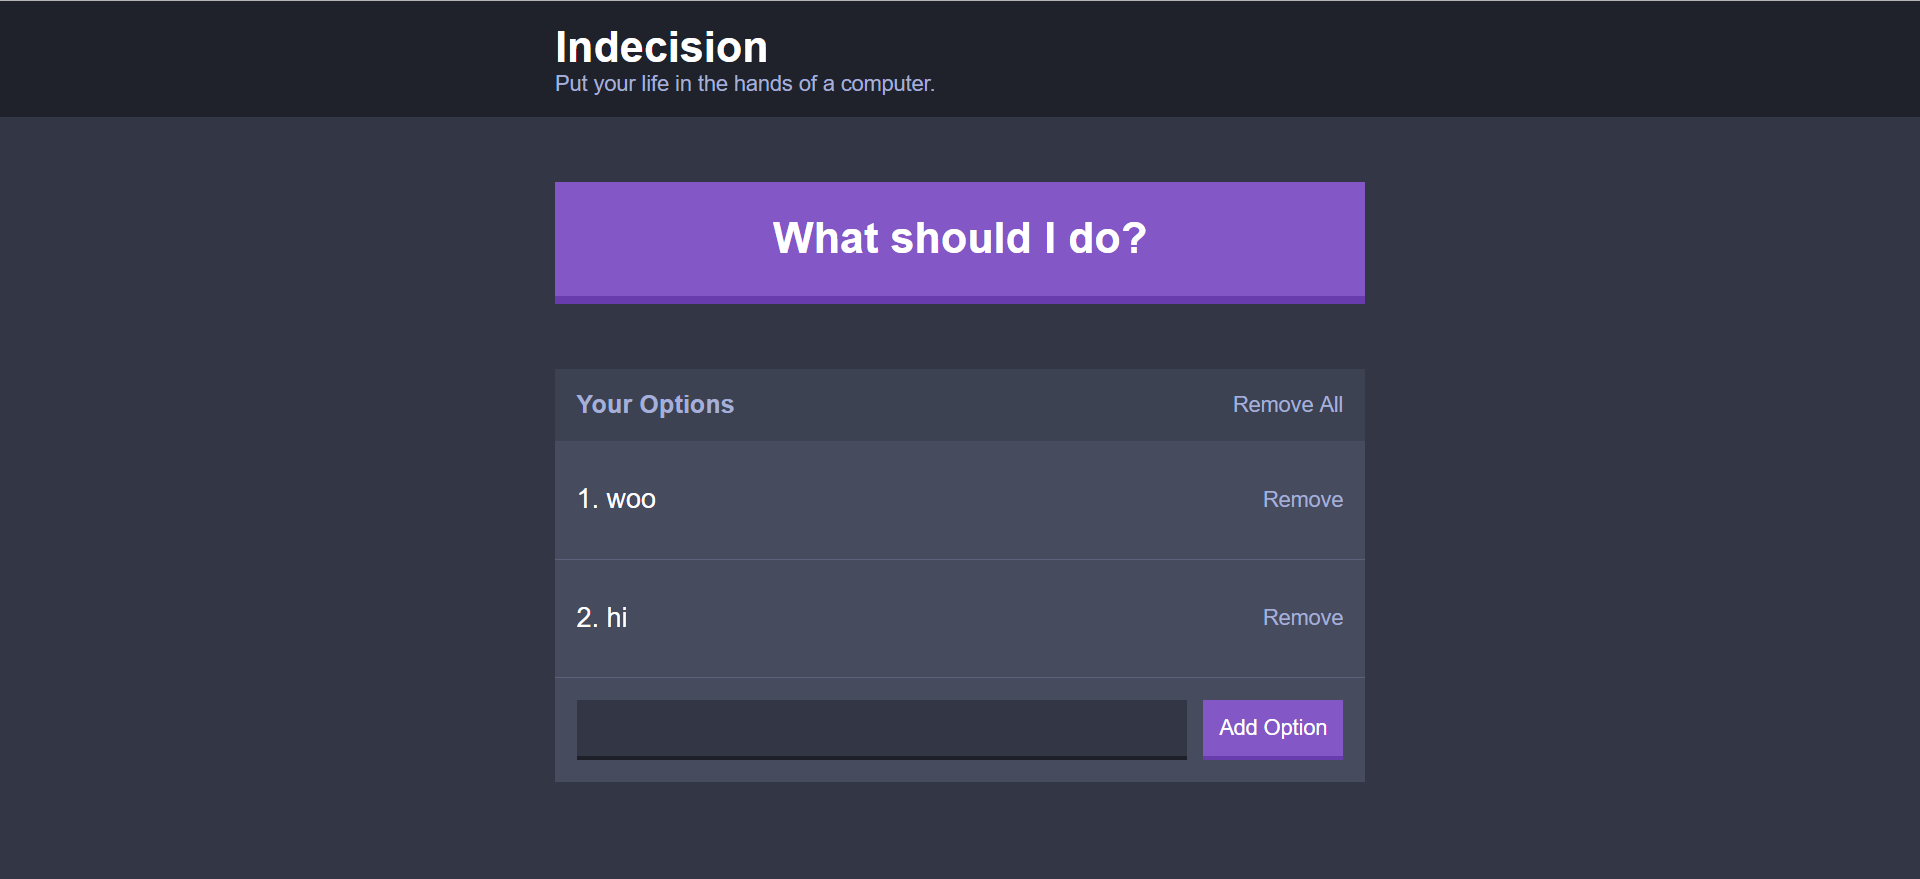
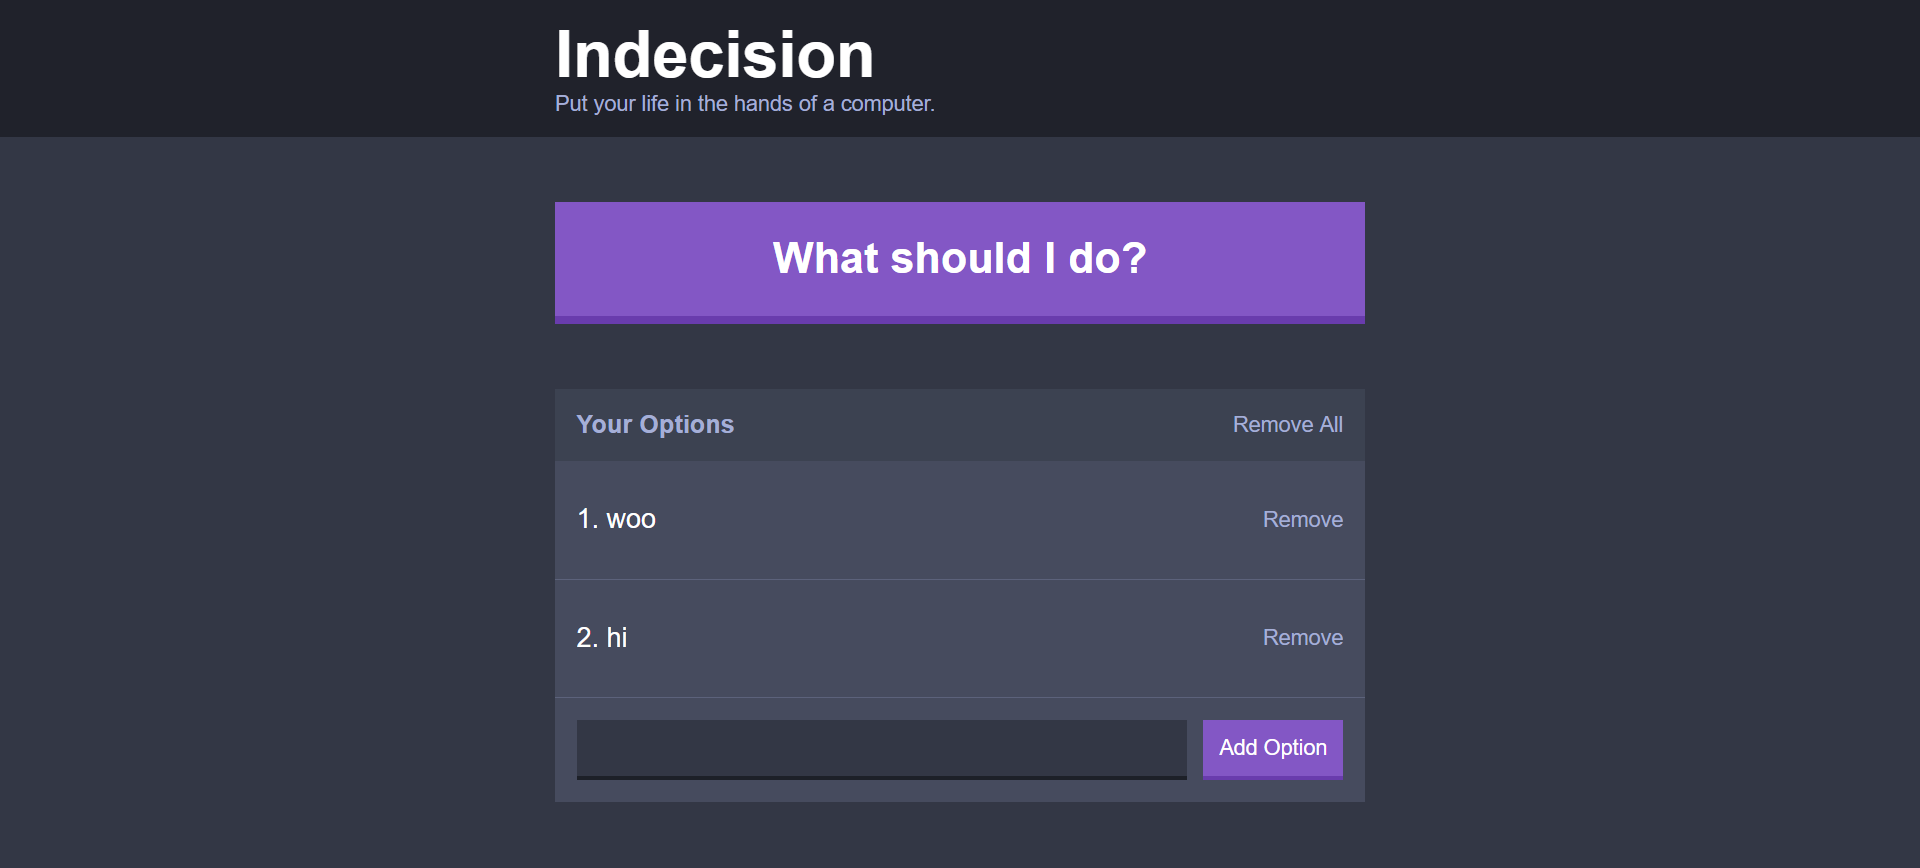
Updated title's size and screenshot picture

diff --git a/src/styles/components/_header.scss b/src/styles/components/_header.scss
@@ -7,7 +7,7 @@
 
 // BEM = block element modifier naming convention
 .header__title {
-    font-size: $l-size;
+    font-size: $xl-size;
     margin: 0;
 }
 
